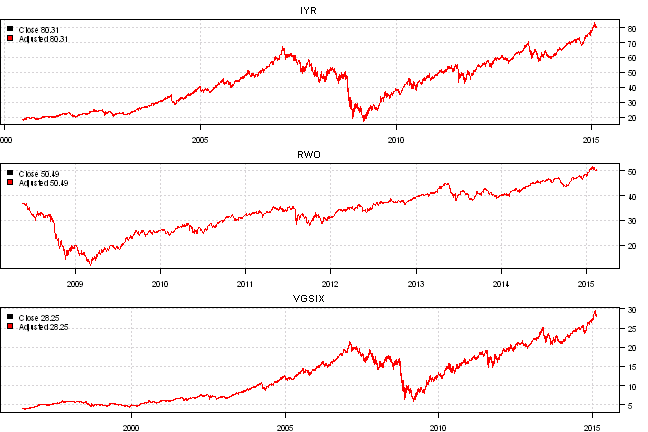
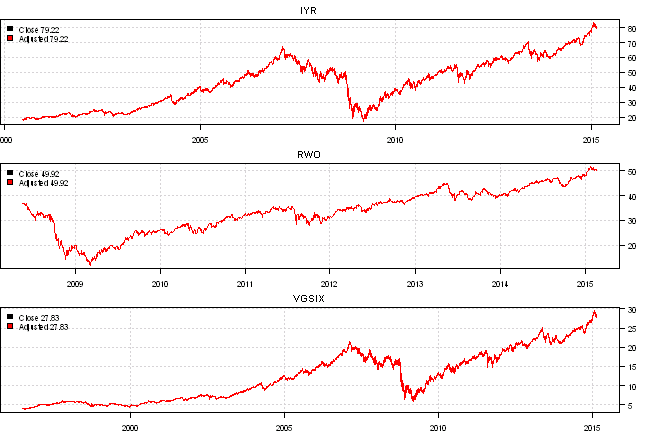
update blog post

diff --git a/_posts/2014-11-14-Data-Proxy.md b/_posts/2014-11-14-Data-Proxy.md
@@ -45,8 +45,11 @@ Note: there are more examples at
 
 raw.data <- new.env()
     
-    # TRJ_CRB file was downloaded from the http://www.corecommodityllc.com/CoreCommodity-Indexes/1cc/681
-    # for TRJ/CRB Index-Total Return
+    # TRJ_CRB file was downloaded from the 
+    # http://www.corecommodityllc.com/CoreIndexes.aspx
+    # select TR/CC-CRB Index-Total Return and click "See Chart"
+    # on Chart page click "Download to Spreadsheet" link
+    # copy TR_CC-CRB, downloaded file, to data folder
     temp = extract.table.from.webpage( join(readLines("data/TR_CC-CRB")), 'EODValue' )
     temp = join( apply(temp, 1, join, ','), '\n' )
     raw.data$CRB = make.stock.xts( read.xts(temp, format='%m/%d/%y' ) )
@@ -128,7 +131,7 @@ On the all history chart CRB_2 is also different.
 
 |      |CRB Price |CRB Total |CRB_2 Price |CRB_2 Total |DBC Price |DBC Total |GSG Price |GSG Total |
 |:-----|:---------|:---------|:-----------|:-----------|:---------|:---------|:---------|:---------|
-|Mean  | 8.2%     | 8.2%     |11.5%       |11.5%       |-0.2%     |-0.2%     |-6.7%     |-6.7%     |
+|Mean  | 8.2%     | 8.2%     |11.5%       |11.5%       |-0.4%     |-0.4%     |-6.9%     |-6.9%     |
 |StDev |16.3%     |16.3%     |21.5%       |21.5%       |20.9%     |20.9%     |25.0%     |25.0%     |
     
 
@@ -209,8 +212,8 @@ create.proxy = function(tickers, proxy.map.tickers, raw.data = new.env()) {
 |RWX   |      |66%   |67%   |
 |VGSIX |      |      |99%   |
 |      |      |      |      |
-|Mean  | 3.6% |12.8% |13.0% |
-|StDev |25.5% |40.4% |39.3% |
+|Mean  | 3.5% |12.6% |12.8% |
+|StDev |25.5% |40.4% |39.2% |
     
 
 
@@ -218,8 +221,8 @@ create.proxy = function(tickers, proxy.map.tickers, raw.data = new.env()) {
 
 |      |RWX Price |RWX Total |VGSIX Price |VGSIX Total |VNQ Price |VNQ Total |
 |:-----|:---------|:---------|:-----------|:-----------|:---------|:---------|
-|Mean  | 3.6%     | 3.6%     |14.5%       |14.5%       |16.0%     |16.0%     |
-|StDev |25.5%     |25.5%     |28.2%       |28.2%       |35.2%     |35.2%     |
+|Mean  | 3.5%     | 3.5%     |14.4%       |14.4%       |15.8%     |15.8%     |
+|StDev |25.5%     |25.5%     |28.2%       |28.2%       |35.1%     |35.1%     |
     
 
 
@@ -260,7 +263,7 @@ Please use `VNQ` and `VGSIX` to extend REIT ex-U.S.
 |IYR   |      |85%   |99%   |
 |RWO   |      |      |85%   |
 |      |      |      |      |
-|Mean  |14.5% | 9.2% |16.4% |
+|Mean  |14.3% | 9.0% |16.2% |
 |StDev |39.1% |29.9% |42.0% |
     
 
@@ -269,7 +272,7 @@ Please use `VNQ` and `VGSIX` to extend REIT ex-U.S.
 
 |      |IYR Price |IYR Total |RWO Price |RWO Total |VGSIX Price |VGSIX Total |
 |:-----|:---------|:---------|:---------|:---------|:-----------|:-----------|
-|Mean  |14.6%     |14.6%     | 9.2%     | 9.2%     |14.5%       |14.5%       |
+|Mean  |14.5%     |14.5%     | 9.0%     | 9.0%     |14.4%       |14.4%       |
 |StDev |29.6%     |29.6%     |29.9%     |29.9%     |28.2%       |28.2%       |
     
 
@@ -427,7 +430,7 @@ Please use `IYR` and `VGSIX` to extend Global REIT.
 
 |      |IEF Price |IEF Total |TB10Y Price |TB10Y Total |VFITX Price |VFITX Total |
 |:-----|:---------|:---------|:-----------|:-----------|:-----------|:-----------|
-|Mean  |6.0%      |6.0%      |6.8%        |6.8%        |5.8%        |5.8%        |
+|Mean  |5.9%      |5.9%      |6.8%        |6.8%        |5.8%        |5.8%        |
 |StDev |7.0%      |7.0%      |9.6%        |9.6%        |5.2%        |5.2%        |
     
 
@@ -574,7 +577,7 @@ Please use `IYR` and `VGSIX` to extend Global REIT.
 
 |      |TB20Y Price |TB20Y Total |TLT Price |TLT Total |VUSTX Price |VUSTX Total |
 |:-----|:-----------|:-----------|:---------|:---------|:-----------|:-----------|
-|Mean  |155.4%      |155.4%      |  8.6%    |  8.6%    |  8.3%      |  8.3%      |
+|Mean  |155.4%      |155.4%      |  8.5%    |  8.5%    |  8.2%      |  8.2%      |
 |StDev | 70.3%      | 70.3%      | 13.8%    | 13.8%    | 10.5%      | 10.5%      |
     
 
@@ -634,7 +637,7 @@ are most likely month-end observations, but they are recorded as the first day o
 
 |      |GLD Price |GLD Total |GOLD Price |GOLD Total |
 |:-----|:---------|:---------|:----------|:----------|
-|Mean  |11.6%     |11.6%     | 9.4%      | 9.4%      |
+|Mean  |11.5%     |11.5%     | 9.4%      | 9.4%      |
 |StDev |20.3%     |20.3%     |20.1%      |20.1%      |
     
 
@@ -758,4 +761,4 @@ print(bt.start.dates(data))
 
 
 
-*(this report was produced on: 2015-02-14)*
+*(this report was produced on: 2015-02-20)*
